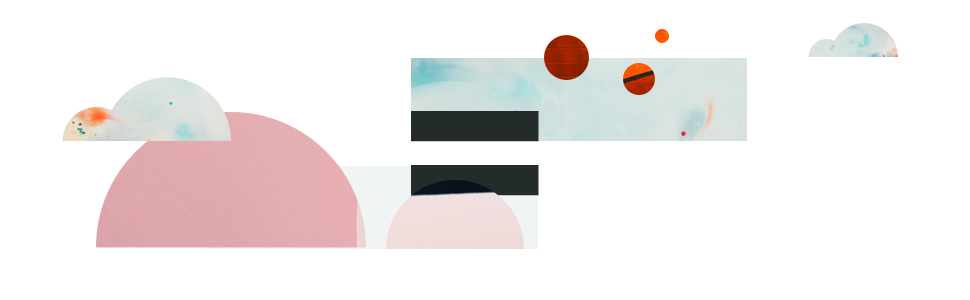
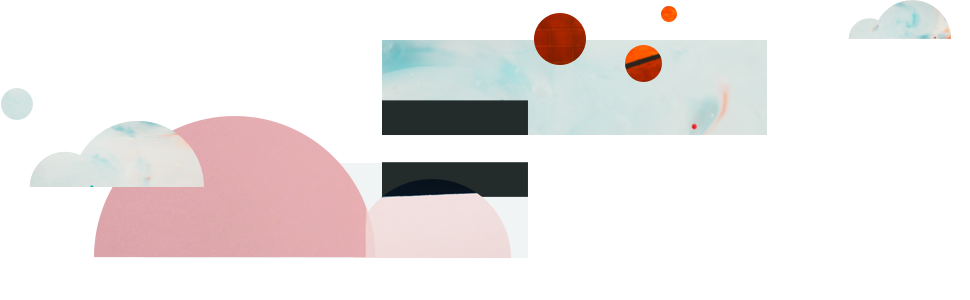
layout wip

diff --git a/_sass/_06_typography.scss b/_sass/_06_typography.scss
@@ -88,7 +88,7 @@ h1, h2, h3, h4, h5, h6 {
 
 h1 {
     font-size: $font-size-h1;
-    margin-top: 1em 0 6em 0;
+    margin: 0.2em 0 0.6em 0;
 }
 h2 {
     font-size: $font-size-h2;

diff --git a/pages/impactoss/about.md b/pages/impactoss/about.md
@@ -8,9 +8,7 @@ video: 262605219
 video_source: vimeo
 ---
 
----
-
-# About IMPACT OSS
+## About
 
 **IMPACT OSS** is an _Open Source Software_ (OSS) for _Integrated Management and Planning of ACTions_ (IMPACT) that is maintained by the **Impact Open Source Software Trust** (see [About]({{site.baseurl}}/trust) to learn more about us).
 
@@ -46,6 +44,8 @@ All project code and related documentation are released under the [MIT Open Sour
 **[Get started with IMPACT OSS]({{site.baseurl}}/impactoss/get-started/)**
 
 ---
+
+![]({{site.urlimg}}features.png)
 
 # Features
 
@@ -104,13 +104,14 @@ All project code and related documentation are released under the [MIT Open Sour
 
 ---
 
-# Demo
+#### Demo sites
+# Try all the Imapct OSS functionality
 
-#### Standard configuration
+## Standard configuration
 
 Check out our demo installation at **[demo.impactoss.org](https://demo.impactoss.org)**. You can sign in and explore the admin features by using email `demo.manager@impactoss.org` and password `manager`.
 
-#### Other configurations for Small States
+## Other configurations for Small States
 
 Further demo installations, in particular aimed at Small States, are available at:
 
@@ -119,7 +120,7 @@ Further demo installations, in particular aimed at Small States, are available a
 
 The configuration and installation of these demo sites were funded by [Permanent Mission of Singapore, Geneva](https://www.mfa.gov.sg/content/mfa/overseasmission/geneva.html).
 
-#### Personal demo
+## Personal demo
 
 We will happily give you an introduction and **schedule a personal demo** with you. Just get in touch at [contact@impactoss.org](mailto:contact@impactoss.org).
 
@@ -129,13 +130,13 @@ We will happily give you an introduction and **schedule a personal demo** with y
 
 We are committed to continue improving IMPACT OSS. In particular, we are currently planning the following improvements
 
-#### Integration of third party-developments
+## Integration of third party-developments
 
 Ongoing developments by third parties that we are looking to integrate with IMPACT OSS.
 
 * **Accessibility**: as part of the enhancements for its National Plan of Action, the NZ Human Rights Commission has provided funding to make IMPACT OSS accessible and compliant with WCAG 2.0. Development is still ongoing and expected to be made available to all installations of IMPACT OSS in December 2018.
 
-#### Other planned enhancements
+## Other planned enhancements
 
 Enhancements we are planning but that subject to funding or third-party developments.
 
@@ -154,7 +155,7 @@ If you would like to **discuss or contribute** to any of the above features or *
 
 ---
 
-# Credits
+##  Credits
 
 #### Design and Development
 

diff --git a/pages/trust/about.md b/pages/trust/about.md
@@ -125,16 +125,18 @@ The Trust Deed which establishes the Impact Open Source Software Trust sets out 
 
 ---
 
-# Partners
+## Partners
 
 <div class="row">
   <div class="large-6 columns">
-    <h4>
+  <p>
+  <img src="{{site.urlimg}}universal-rights-group.png">
+</p>
+<h4>
       Universal Rights Group
     </h4>
-    <p>
-      <img src="{{site.urlimg}}universal-rights-group.png">
-    </p>
+
+
     <p>
       The Trust and URG signed an MOU in October 2017 in recognition of their shared aim to advance the implementation agenda through the use of technology. Through the partnership URG leverages its networks and influence within Geneva and the human rights sector to test, develop, and generate interest and funds for the improvement and application of IMPACT OSS.
     </p>

diff --git a/pages/impactoss/get-started.md b/pages/impactoss/get-started.md
@@ -26,7 +26,9 @@ In addition, it is best to sporadically
 
 ---
 
-## Free and open source
+![]({{site.urlimg}}open.png)
+
+# Free and open source
 
 The source code for both server and client is open source and freely available under the MIT license. Anyone is therefore permitted to make a copy of the source code, change it, and install it on suitable web servers without any financial obligation to the IMPACT OSS Group as long as any modifications are also open source.
 

diff --git a/pages/pages-root-folder/index.md b/pages/pages-root-folder/index.md
@@ -5,7 +5,7 @@
 # this work, you have to use › layout: frontpage
 #
 layout: frontpage
-header_image: header.png
+header_image: home-2.png
 teaser: Impact OSS – developing and supporting tools to coordinate and monitor the implementation of human rights and the SDGs. Transparent progress and efforts.
 widget1:
   title: "Who we are"
